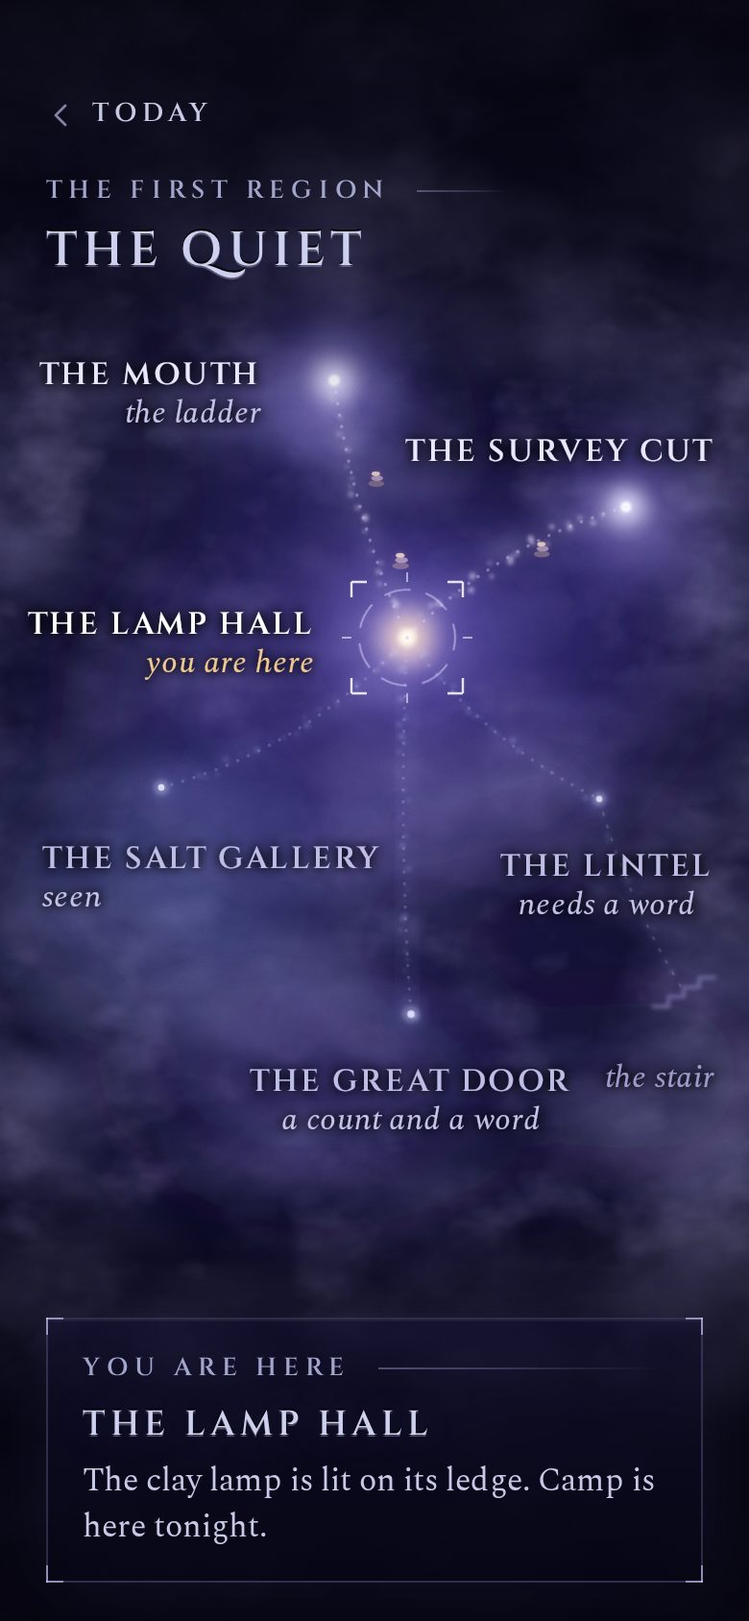
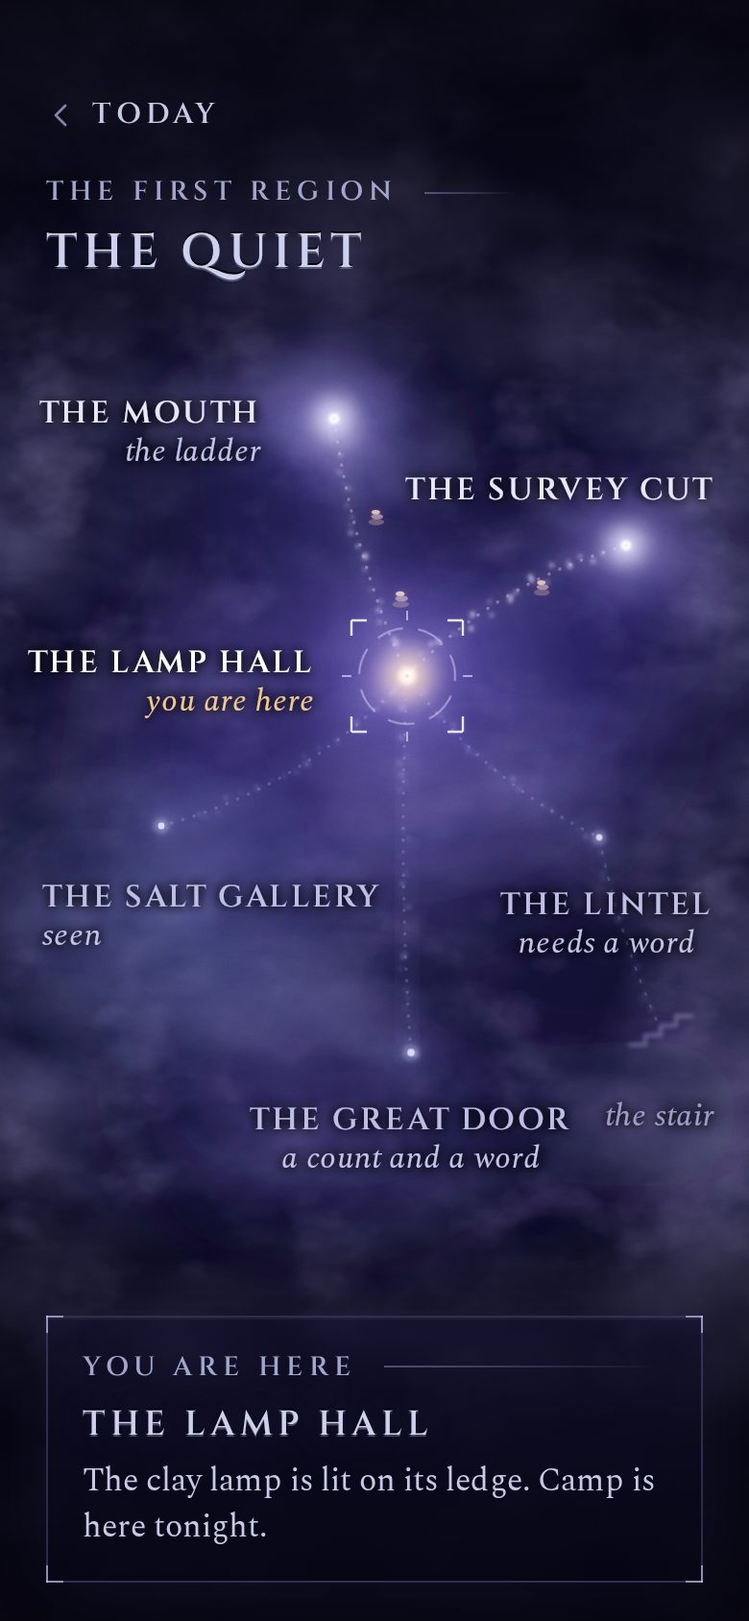
design: direction D final fixes, part 1 (dial scale, reachable destinations, Ahead label, map, satchel heading, index)
Claude-Session: https://claude.ai/code/session_01Kbno6rpv5TB3oKGk9kw7t3

diff --git a/docs/design/directions/d-combined/map.html b/docs/design/directions/d-combined/map.html
@@ -42,13 +42,15 @@ body { --scrim-top-h: 210px; --scrim-bottom-h: 26%; }
 .box .act[hidden] { display: none; }
 .box .swap { animation: rise .45s var(--ease) both; }
 @media (max-height: 800px) { .bottom .box { min-height: 124px; padding: 14px 16px; } }
+/* the map sits 20px lower than first drawn (fills the band above the box); on short phones take that back so the box never meets the labels */
+@media (max-height: 800px) { .paint > img.pimg, .places > svg, svg.live { top: -20px; height: calc(100% + 20px); } }
 
 </style>
 </head>
 <body class="s-day">
 <main class="phone">
 
[2 lines of base64/hex data omitted]
 <div class="fog " aria-hidden="true"><i class="drift-a"></i><i class="drift-b"></i></div>
 <div class="paint places" aria-hidden="true"><svg viewBox="0 0 390 844" preserveAspectRatio="xMidYMid slice"><defs>
   <filter id="clouds" x="0" y="0" width="100%" height="100%">
@@ -76,7 +78,7 @@ body { --scrim-top-h: 210px; --scrim-bottom-h: 26%; }
   <radialGradient id="warmPool"><stop offset="0" stop-color="#ffe0a8" stop-opacity=".95"/><stop offset=".12" stop-color="#f4a95a" stop-opacity=".5"/><stop offset=".45" stop-color="#8a4a8a" stop-opacity=".16"/><stop offset="1" stop-color="#2a1a40" stop-opacity="0"/></radialGradient>
   <filter id="halo" x="-20%" y="-60%" width="140%" height="220%"><feGaussianBlur in="SourceAlpha" stdDeviation="3" result="b"/><feFlood flood-color="#05040f" flood-opacity=".95"/><feComposite in2="b" operator="in" result="s"/><feMerge><feMergeNode in="s"/><feMergeNode in="s"/><feMergeNode in="SourceGraphic"/></feMerge></filter>
   <filter id="lineGlow" x="-20%" y="-20%" width="140%" height="140%"><feGaussianBlur stdDeviation="1.6" result="b"/><feMerge><feMergeNode in="b"/><feMergeNode in="SourceGraphic"/></feMerge></filter>
-</defs><g transform="translate(174 198) scale(0.9)" class="pl"><circle r="70" fill="url(#litPool)" opacity=".85"/><circle r="10" fill="#d2ccff" opacity=".55" filter="url(#b4)"/><circle r="3.2" fill="#fbfaff" filter="url(#b1)"/></g><g transform="translate(326 264) scale(0.85)" class="pl"><circle r="70" fill="url(#litPool)" opacity=".85"/><circle r="10" fill="#d2ccff" opacity=".55" filter="url(#b4)"/><circle r="3.2" fill="#fbfaff" filter="url(#b1)"/></g><g transform="translate(84 410) scale(1.0)" class="pl"><circle r="22" fill="url(#seenPool)" opacity=".42"/><circle r="4" fill="#aeb6f0" opacity=".3" filter="url(#b1)"/><circle r="1.7" fill="#dfe3ff" opacity=".85"/></g><g transform="translate(312 416) scale(0.95)" class="pl"><circle r="22" fill="url(#seenPool)" opacity=".42"/><circle r="4" fill="#aeb6f0" opacity=".3" filter="url(#b1)"/><circle r="1.7" fill="#dfe3ff" opacity=".85"/></g><g transform="translate(214 528) scale(1.15)" class="pl"><circle r="22" fill="url(#seenPool)" opacity=".42"/><circle r="4" fill="#aeb6f0" opacity=".3" filter="url(#b1)"/><circle r="1.7" fill="#dfe3ff" opacity=".85"/></g><circle cx="212" cy="332" r="60" fill="#8b7cff" opacity=".16" filter="url(#b16)"/><g transform="translate(212 332) scale(1.35)" class="pl"><g class="breathe"><circle r="48" fill="url(#litPool)"/><circle r="26" fill="url(#warmPool)" opacity=".9"/></g><circle r="10" fill="#ffd9a0" opacity=".5" filter="url(#b4)"/><circle r="3.4" fill="#fff4de" filter="url(#b1)"/></g><circle id="stairpool" cx="356" cy="516" r="46" fill="url(#seenPool)" opacity="0"/><g id="stairshape" opacity=".55"><ellipse cx="356" cy="516" rx="24" ry="15" fill="#6f6ab8" opacity=".16" filter="url(#b8)"/><path d="M340 524 h8 v-5 h8 v-5 h8 v-5 h8" fill="none" stroke="#a7a3e6" stroke-width="2" stroke-linecap="round" stroke-linejoin="round" filter="url(#b1)" opacity=".7"/></g></svg></div>
+</defs><g transform="translate(0 20)"><g transform="translate(174 198) scale(0.9)" class="pl"><circle r="70" fill="url(#litPool)" opacity=".85"/><circle r="10" fill="#d2ccff" opacity=".55" filter="url(#b4)"/><circle r="3.2" fill="#fbfaff" filter="url(#b1)"/></g><g transform="translate(326 264) scale(0.85)" class="pl"><circle r="70" fill="url(#litPool)" opacity=".85"/><circle r="10" fill="#d2ccff" opacity=".55" filter="url(#b4)"/><circle r="3.2" fill="#fbfaff" filter="url(#b1)"/></g><g transform="translate(84 410) scale(1.0)" class="pl"><circle r="22" fill="url(#seenPool)" opacity=".42"/><circle r="4" fill="#aeb6f0" opacity=".3" filter="url(#b1)"/><circle r="1.7" fill="#dfe3ff" opacity=".85"/></g><g transform="translate(312 416) scale(0.95)" class="pl"><circle r="22" fill="url(#seenPool)" opacity=".42"/><circle r="4" fill="#aeb6f0" opacity=".3" filter="url(#b1)"/><circle r="1.7" fill="#dfe3ff" opacity=".85"/></g><g transform="translate(214 528) scale(1.15)" class="pl"><circle r="22" fill="url(#seenPool)" opacity=".42"/><circle r="4" fill="#aeb6f0" opacity=".3" filter="url(#b1)"/><circle r="1.7" fill="#dfe3ff" opacity=".85"/></g><circle cx="212" cy="332" r="60" fill="#8b7cff" opacity=".16" filter="url(#b16)"/><g transform="translate(212 332) scale(1.35)" class="pl"><g class="breathe"><circle r="48" fill="url(#litPool)"/><circle r="26" fill="url(#warmPool)" opacity=".9"/></g><circle r="10" fill="#ffd9a0" opacity=".5" filter="url(#b4)"/><circle r="3.4" fill="#fff4de" filter="url(#b1)"/></g><circle id="stairpool" cx="344" cy="516" r="46" fill="url(#seenPool)" opacity="0"/><g id="stairshape" opacity=".55"><ellipse cx="344" cy="516" rx="24" ry="15" fill="#6f6ab8" opacity=".16" filter="url(#b8)"/><path d="M328 524 h8 v-5 h8 v-5 h8 v-5 h8" fill="none" stroke="#a7a3e6" stroke-width="2" stroke-linecap="round" stroke-linejoin="round" filter="url(#b1)" opacity=".7"/></g></g></svg></div>
 <div class="grain" aria-hidden="true"></div>
 <div class="vignette" aria-hidden="true"></div>
 <div class="scrim-top" aria-hidden="true"></div>
@@ -85,8 +87,8 @@ body { --scrim-top-h: 210px; --scrim-bottom-h: 26%; }
 <defs>
   <filter id="halo2" x="-20%" y="-60%" width="140%" height="220%"><feGaussianBlur in="SourceAlpha" stdDeviation="3" result="b"/><feFlood flood-color="#05040f" flood-opacity=".95"/><feComposite in2="b" operator="in" result="s"/><feMerge><feMergeNode in="s"/><feMergeNode in="s"/><feMergeNode in="SourceGraphic"/></feMerge></filter>
   <filter id="lineGlow2" x="-20%" y="-20%" width="140%" height="140%"><feGaussianBlur stdDeviation="1.8" result="b"/><feMerge><feMergeNode in="b"/><feMergeNode in="SourceGraphic"/></feMerge></filter>
-</defs>
-<g class="lines" fill="none" stroke="#d6d2ff" stroke-width="1.1" filter="url(#lineGlow2)"><path class="drawn settle" pathLength="100" d="M174 198 Q183.4 267.7 212 332" stroke-opacity="0.72" style="--len:100;animation-delay:0.35s,2.25s"/><path class="drawn settle" pathLength="100" d="M212 332 Q259.8 282.5 326 264" stroke-opacity="0.72" style="--len:100;animation-delay:0.53s,2.43s"/><path class="drawn settle" pathLength="100" d="M212 332 Q159.4 389.8 84 410" stroke-opacity="0.46" style="--len:100;animation-delay:0.71s,2.61s"/><path class="drawn settle" pathLength="100" d="M212 332 Q251.7 386.3 312 416" stroke-opacity="0.46" style="--len:100;animation-delay:0.89s,2.79s"/><path class="drawn settle" pathLength="100" d="M212 332 Q207 430.1 214 528" stroke-opacity="0.46" style="--len:100;animation-delay:1.07s,2.97s"/><path d="M312 416 Q326.7 469.2 356 516" stroke-opacity="0.2" stroke-dasharray="2 5" class="fadein" style="animation-delay:2.15s"/></g>
+</defs><g transform="translate(0 20)">
+<g class="lines" fill="none" stroke="#d6d2ff" stroke-width="1.1" filter="url(#lineGlow2)"><path class="drawn settle" pathLength="100" d="M174 198 Q183.4 267.7 212 332" stroke-opacity="0.72" style="--len:100;animation-delay:0.35s,2.25s"/><path class="drawn settle" pathLength="100" d="M212 332 Q259.8 282.5 326 264" stroke-opacity="0.72" style="--len:100;animation-delay:0.53s,2.43s"/><path class="drawn settle" pathLength="100" d="M212 332 Q159.4 389.8 84 410" stroke-opacity="0.46" style="--len:100;animation-delay:0.71s,2.61s"/><path class="drawn settle" pathLength="100" d="M212 332 Q251.7 386.3 312 416" stroke-opacity="0.46" style="--len:100;animation-delay:0.89s,2.79s"/><path class="drawn settle" pathLength="100" d="M212 332 Q207 430.1 214 528" stroke-opacity="0.46" style="--len:100;animation-delay:1.07s,2.97s"/><path d="M312 416 Q322.7 469.2 344 516" stroke-opacity="0.2" stroke-dasharray="2 5" class="fadein" style="animation-delay:2.15s"/></g>
 <g class="dots" fill="none" stroke="#dcd8ff" stroke-width="1.7" stroke-linecap="round" stroke-dasharray=".1 6"><path class="dust" d="M174 198 Q183.4 267.7 212 332" stroke-opacity="0.38" style="animation-delay:1.85s"/><path class="dust" d="M212 332 Q259.8 282.5 326 264" stroke-opacity="0.38" style="animation-delay:2.03s"/><path class="dust" d="M212 332 Q159.4 389.8 84 410" stroke-opacity="0.2" style="animation-delay:2.21s"/><path class="dust" d="M212 332 Q251.7 386.3 312 416" stroke-opacity="0.2" style="animation-delay:2.39s"/><path class="dust" d="M212 332 Q207 430.1 214 528" stroke-opacity="0.2" style="animation-delay:2.57s"/></g>
 <g class="labels"><text x="136" y="200" text-anchor="end" class="nn ">THE MOUTH</text><text x="136" y="220" text-anchor="end" class="ns ">the ladder</text><text x="372" y="240" text-anchor="end" class="nn ">THE SURVEY CUT</text><text x="164" y="330" text-anchor="end" class="nn here">THE LAMP HALL</text><text x="164" y="350" text-anchor="end" class="ns warm">you are here</text><text x="22" y="452" text-anchor="start" class="nn seen">THE SALT GALLERY</text><text x="22" y="472" text-anchor="start" class="ns ">seen</text><text x="316" y="456" text-anchor="middle" class="nn seen">THE LINTEL</text><text x="316" y="476" text-anchor="middle" class="ns " id="lintelsub">needs a word</text><text x="214" y="568" text-anchor="middle" class="nn seen">THE GREAT DOOR</text><text x="214" y="588" text-anchor="middle" class="ns ">a count and a word</text><text x="372" y="566" text-anchor="end" class="ns dim" id="stairlabel">the stair</text></g>
 <g class="reticle" id="reticle" style="transform:translate(212px,332px)">
@@ -94,8 +96,8 @@ body { --scrim-top-h: 210px; --scrim-bottom-h: 26%; }
   <path d="M-29 -29 h8 M-29 -29 v8 M29 -29 h-8 M29 -29 v8 M-29 29 h8 M-29 29 v-8 M29 29 h-8 M29 29 v-8" fill="none" stroke="#efedff" stroke-opacity=".95" stroke-width="1.2"/>
   <path d="M0 -34 v5 M0 34 v-5 M-34 0 h5 M34 0 h-5" stroke="#efedff" stroke-opacity=".6" stroke-width="1"/>
 </g>
-<g fill="transparent"><circle class="node" data-n="mouth" cx="174" cy="198" r="30" tabindex="0" role="button" aria-label="mouth"/><circle class="node" data-n="survey" cx="326" cy="264" r="30" tabindex="0" role="button" aria-label="survey"/><circle class="node" data-n="hall" cx="212" cy="332" r="30" tabindex="0" role="button" aria-label="hall"/><circle class="node" data-n="salt" cx="84" cy="410" r="30" tabindex="0" role="button" aria-label="salt"/><circle class="node" data-n="lintel" cx="312" cy="416" r="30" tabindex="0" role="button" aria-label="lintel"/><circle class="node" data-n="door" cx="214" cy="528" r="30" tabindex="0" role="button" aria-label="door"/><circle class="node" data-n="stair" cx="356" cy="516" r="30" tabindex="0" role="button" aria-label="stair"/></g>
-</svg>
+<g fill="transparent"><circle class="node" data-n="mouth" cx="174" cy="198" r="30" tabindex="0" role="button" aria-label="mouth"/><circle class="node" data-n="survey" cx="326" cy="264" r="30" tabindex="0" role="button" aria-label="survey"/><circle class="node" data-n="hall" cx="212" cy="332" r="30" tabindex="0" role="button" aria-label="hall"/><circle class="node" data-n="salt" cx="84" cy="410" r="30" tabindex="0" role="button" aria-label="salt"/><circle class="node" data-n="lintel" cx="312" cy="416" r="30" tabindex="0" role="button" aria-label="lintel"/><circle class="node" data-n="door" cx="214" cy="528" r="30" tabindex="0" role="button" aria-label="door"/><circle class="node" data-n="stair" cx="344" cy="516" r="30" tabindex="0" role="button" aria-label="stair"/></g>
+</g></svg>
 <div class="ui" style="pointer-events:none">
   <header class="top col" style="pointer-events:auto">
     <div class="topbar rise"><a class="home" href="morning.html"><svg viewBox="0 0 16 16" aria-hidden="true"><path d="M10 3 5 8l5 5"/></svg><span>Today</span></a><span></span><span></span></div>
@@ -134,7 +136,7 @@ body { --scrim-top-h: 210px; --scrim-bottom-h: 26%; }
 </script>
 <script>
 (function(){
-  var N = {"mouth":[174,198],"survey":[326,264],"hall":[212,332],"salt":[84,410],"lintel":[312,416],"door":[214,528],"stair":[356,516]};
+  var N = {"mouth":[174,198],"survey":[326,264],"hall":[212,332],"salt":[84,410],"lintel":[312,416],"door":[214,528],"stair":[344,516]};
   var C = {
     hall:   ['You are here', 'The Lamp Hall', 'The clay lamp is lit on its ledge. Camp is here tonight.', null],
     mouth:  ['Reached', 'The Mouth', 'The capped shaft and the ladder. The way you came in.', null],

diff --git a/docs/design/directions/d-combined/delve-set.html b/docs/design/directions/d-combined/delve-set.html
@@ -9,7 +9,8 @@
 <link rel="stylesheet" href="direction.css">
 <style>
 /* delve-set: the moment after Begin. Dan chose the dial (D-033; the three tried are in delve-set-variants.html).
-   Four stops only: 25, 30, 45, 60, a quarter-turn apart. Research: design/research/DELVE_TIMER_CONTROLS.md
+   Four stops only: 25, 30, 45, 60, on a 60-minute face: the ring fills in proportion (25 = 5/12, 30 = half, 45 = three quarters,
+   60 = full), each stop label at its own angle, 60 at the top where the ring starts and ends. Research: design/research/DELVE_TIMER_CONTROLS.md
    One centre axis: the dial, its number, the stops, the route, the words and the button all share the column's centre. */
 
 body { --scrim-top-h: 300px; --scrim-bottom-h: 52%; }
@@ -66,7 +67,7 @@ body { --scrim-top-h: 300px; --scrim-bottom-h: 52%; }
 .dial .pulse.go { animation: pulse .6s var(--ease); }
 @keyframes pulse { 0% { opacity:.95; scale: .6; } 100% { opacity:0; scale: 2.8; } }
 
-/* the stops: top, right, bottom, left of the ring, all the same distance out (tap them, too) */
+/* the stops: at their minutes on a 60-minute face (25 at 150°, 30 at 180°, 45 at 270°, 60 at the top), all the same distance out (tap them, too) */
 .stop { position:absolute; left:0; top:0; width:48px; height:44px; margin:-22px 0 0 -24px; display:flex; align-items:center; justify-content:center;
   font-family: var(--life); font-size: 17px; color: var(--ink-3); font-variant-numeric: tabular-nums lining-nums;
   transform: rotate(var(--a)) translateY(calc((var(--R) / 2 + 30px) * -1)) rotate(calc(var(--a) * -1));
@@ -76,14 +77,16 @@ body { --scrim-top-h: 300px; --scrim-bottom-h: 52%; }
 .stop:focus-visible { outline: 1px solid var(--edge); outline-offset: -4px; }
 .stops { --R: min(224px, 56vw, 27vh); position:absolute; left:0; top:0; }
 
-/* the route: the column's full width, markers evenly spaced, all centred on one line */
+/* the route: the column's full width always drawn, markers evenly spaced and dim until reached, all centred on one line */
 .route { position:absolute; left:0; right:0; bottom: 0; height: 32px; pointer-events:none; }
 .route svg { width:100%; height:100%; overflow:visible; display:block; }
 
 /* where it takes you */
 .reach { text-align:center; min-height: 104px; margin-top: 14px; }
+.reach h2 { white-space: normal; text-wrap: balance; max-width: 16em; margin-left:auto; margin-right:auto; min-height: 2.5em; line-height: 1.25;
+  display:flex; align-items:center; justify-content:center; }
 .reach .label-line { justify-content:center; }
-.reach h2 { margin-top: 8px; font-size: 22px; letter-spacing: .12em; padding-left: .12em; white-space: nowrap; color: #eceaff;
+.reach h2 { margin-top: 8px; font-size: 22px; letter-spacing: .12em; padding-left: .12em; color: #eceaff;
   text-shadow: 0 -1px 0 rgba(0,0,0,.9), 0 0 16px rgba(var(--violet-rgb), .7), 0 0 44px rgba(var(--violet-rgb), .35); }
 .reach p { margin-top: 4px; min-height: 24px; }
 .reach .swap { transition: opacity .28s var(--ease), transform .28s var(--ease); }
@@ -97,7 +100,7 @@ body { --scrim-top-h: 300px; --scrim-bottom-h: 52%; }
 @media (max-height: 800px) {
   .job h1 { font-size: 24px; }
   .reach { min-height: 96px; margin-top: 10px; }
-  .reach h2 { font-size: 20px; }
+  .reach h2 { font-size: 19px; }
   .go .soft { margin-bottom: 10px; }
 }
 </style>
@@ -128,20 +131,20 @@ body { --scrim-top-h: 300px; --scrim-bottom-h: 52%; }
   <div class="mid stage col rise d2" id="stage">
     <div class="stage-in">
       <div class="dialwrap">
-        <div class="dial" id="dial" role="slider" tabindex="0" aria-label="Length of the delve" aria-valuemin="25" aria-valuemax="60" aria-valuenow="25" style="--p:.25">
+        <div class="dial" id="dial" role="slider" tabindex="0" aria-label="Length of the delve" aria-valuemin="25" aria-valuemax="60" aria-valuenow="25" style="--p:.4167">
           <div class="halo"></div><div class="disc"></div>
           <div class="band track"></div>
           <div class="glow wide"><div class="band fill"></div></div>
           <div class="glow"><div class="band fill"></div></div>
           <div class="band fill"></div>
-          <i class="notch" data-m="25" style="--a:90deg"></i><i class="notch" data-m="30" style="--a:180deg"></i><i class="notch" data-m="45" style="--a:270deg"></i><i class="notch" data-m="60" style="--a:360deg"></i>
+          <i class="notch" data-m="25" style="--a:150deg"></i><i class="notch" data-m="30" style="--a:180deg"></i><i class="notch" data-m="45" style="--a:270deg"></i><i class="notch" data-m="60" style="--a:360deg"></i>
           <div class="pulse"></div>
           <div class="handle"></div>
           <div class="inner"><span class="num">25</span><span class="unit">minutes</span></div>
         </div>
         <div class="stops">
           <button class="stop" type="button" data-m="60" style="--a:0deg" aria-label="60 minutes">60</button>
-          <button class="stop" type="button" data-m="25" style="--a:90deg" aria-label="25 minutes">25</button>
+          <button class="stop" type="button" data-m="25" style="--a:150deg" aria-label="25 minutes">25</button>
           <button class="stop" type="button" data-m="30" style="--a:180deg" aria-label="30 minutes">30</button>
           <button class="stop" type="button" data-m="45" style="--a:270deg" aria-label="45 minutes">45</button>
         </div>
@@ -152,13 +155,12 @@ body { --scrim-top-h: 300px; --scrim-bottom-h: 52%; }
 
   <section class="bottom col">
     <div class="reach rise d3" id="reach" aria-live="polite">
-      <div class="label-line centred swap" id="rk">Towards</div>
-      <h2 class="carve swap" id="rp">The Salt Gallery</h2>
-      <p class="soft on-scene swap" id="rl">where the passage is heading</p>
+      <div class="label-line centred">How far</div>
+      <h2 class="carve swap" id="rp">Towards the Salt Gallery</h2>
     </div>
     <div class="go rise d4">
       <p class="soft on-scene">Then a breather: <b>5 minutes</b>.</p>
-      <a class="btn" id="start" href="delve.html">Start the delve</a>
+      <a class="btn" id="start" href="delve.html#cat-25">Start the delve</a>
     </div>
   </section>
 </div>
@@ -185,12 +187,13 @@ body { --scrim-top-h: 300px; --scrim-bottom-h: 52%; }
 (function(){
   'use strict';
   var STOPS = [25, 30, 45, 60];
-  var ANG = { 25: 90, 30: 180, 45: 270, 60: 360 };   /* a quarter-turn apart: symmetric round the ring */
+  var ANG = { 25: 150, 30: 180, 45: 270, 60: 360 };   /* a 60-minute face: 6° a minute, from the top */
+  /* only the open first region: never past the sealed lintel */
   var REACH = {
-    25: ['Towards', 'The Salt Gallery', 'where the passage is heading'],
-    30: ['Towards', 'The Salt Gallery', 'and a little way beyond it'],
-    45: ['Further', 'The head of the stair', 'past the Salt Gallery, to where the stair begins'],
-    60: ['Further', 'Somewhere unlit', 'somewhere you haven’t been yet']
+    25: 'Towards the Salt Gallery',
+    30: 'The Salt Gallery, and a little past it',
+    45: 'On to the Survey Cut',
+    60: 'The far end of the Survey Cut'
   };
   var reduce = window.matchMedia && matchMedia('(prefers-reduced-motion: reduce)').matches;
   var NS = 'http://www.w3.org/2000/svg';
@@ -202,10 +205,10 @@ body { --scrim-top-h: 300px; --scrim-bottom-h: 52%; }
   function el(tag, attrs, parent) { var e = document.createElementNS(NS, tag); for (var k in attrs) e.setAttribute(k, attrs[k]); if (parent) parent.appendChild(e); return e; }
   function buzz(ms) { try { if (navigator.vibrate) navigator.vibrate(ms); } catch (e) {} }
   function retrigger(node, cls) { node.classList.remove(cls); void node.offsetWidth; node.classList.add(cls); }
-  /* minutes ↔ angle, piecewise between the stops */
+  /* minutes ↔ angle: 6° a minute (and a piecewise map for the route) */
   function lerpMap(x, xs, ys) { for (var i = 0; i < xs.length - 1; i++) if (x <= xs[i + 1]) return ys[i] + (ys[i + 1] - ys[i]) * (x - xs[i]) / (xs[i + 1] - xs[i]); return ys[ys.length - 1]; }
-  function angOf(v) { return lerpMap(v, [25, 30, 45, 60], [90, 180, 270, 360]); }
-  function minOf(a) { return lerpMap(a, [90, 180, 270, 360], [25, 30, 45, 60]); }
+  function angOf(v) { return v * 6; }
+  function minOf(a) { return a / 6; }
 
   /* the painted hall behind */
   try { Hall.draw(document.getElementById('hall'), { cam: { y: 1.7, pitch: -3, f: .9, cy: .4 }, cups: 'dark', lintel: 'sealed', gold: .1, res: .75 }); } catch (e) {}
@@ -214,8 +217,8 @@ body { --scrim-top-h: 300px; --scrim-bottom-h: 52%; }
   var stopEls = Array.prototype.slice.call(document.querySelectorAll('.stop'));
   stopEls.forEach(function (b) { b.addEventListener('click', function () { settle(+b.dataset.m, true); }); });
 
-  /* the route: you → the Salt Gallery → the head of the stair → somewhere unlit.
-     Four markers, evenly spaced across the column, each centred on the one line. */
+  /* the route: you → the Salt Gallery → the Survey Cut → its far end. Arches only (never the stair: it lies past the sealed lintel).
+     The whole bar always shows, so it reads centred; each place is dim until the lit line reaches it. */
   var route = document.getElementById('route'), R = null;
   function drawRoute() {
     route.innerHTML = '';
@@ -225,33 +228,33 @@ body { --scrim-top-h: 300px; --scrim-bottom-h: 52%; }
     var d = el('defs', {}, route);
     d.innerHTML = '<linearGradient id="rg" gradientUnits="userSpaceOnUse" x1="0" x2="' + W + '" y1="0" y2="0"><stop offset="0" stop-color="#8f86ff" stop-opacity=".25"/><stop offset="1" stop-color="#ece9ff"/></linearGradient>' +
       '<radialGradient id="rn"><stop offset="0" stop-color="#fff"/><stop offset=".4" stop-color="#b9b3ff" stop-opacity=".7"/><stop offset="1" stop-color="#8f86ff" stop-opacity="0"/></radialGradient>';
-    var dim = el('path', { d: 'M' + xs[0] + ' ' + y + ' H' + xs[3], stroke: 'rgba(186,186,255,.16)', 'stroke-width': 1, 'stroke-dasharray': '2 5' }, route);
+    el('path', { d: 'M' + xs[0] + ' ' + y + ' H' + xs[3], stroke: 'rgba(186,186,255,.3)', 'stroke-width': 1 }, route);
     var lit = el('path', { stroke: 'url(#rg)', 'stroke-width': 1.6, 'stroke-linecap': 'round', style: 'filter:drop-shadow(0 0 4px rgba(143,134,255,.9))' }, route);
-    /* each glyph is drawn in a 16×16 box centred on (0,0), so all four share one centre line */
-    function glyph(x, dd, attrs) { var g = el('g', { transform: 'translate(' + x + ' ' + y + ')' }, route); el('path', Object.assign({ d: dd, fill: 'none', stroke: '#e9e6ff', 'stroke-width': 1.2, 'stroke-linecap': 'round', 'stroke-linejoin': 'round' }, attrs || {}), g); return g; }
-    el('circle', { cx: xs[0], cy: y, r: 3.2, fill: '#ffd27a', style: 'filter:drop-shadow(0 0 5px #f2c170)' }, route);
+    /* each glyph is drawn in a 16×16 box centred on (0,0), so all share one centre line; a dark fill hides the track behind it */
     var ARCH = 'M-6 8 V-1 Q-6 -8 0 -8 Q6 -8 6 -1 V8';
-    var g25 = glyph(xs[1], ARCH);
-    var g45 = glyph(xs[2], 'M-7 -7 H-2.5 V-2.5 H2 V2 H7 V7');
-    var g60 = glyph(xs[3], ARCH, { stroke: 'rgba(210,208,255,.7)', 'stroke-dasharray': '2 3' });
+    function glyph(x) { var g = el('g', { transform: 'translate(' + x + ' ' + y + ')' }, route); el('path', { d: ARCH + ' Z', fill: '#0b0b1c', stroke: 'none' }, g); el('path', { d: ARCH, fill: 'none', stroke: '#e9e6ff', 'stroke-width': 1.2, 'stroke-linecap': 'round', 'stroke-linejoin': 'round' }, g); return g; }
+    el('circle', { cx: xs[0], cy: y, r: 3.2, fill: '#ffd27a', style: 'filter:drop-shadow(0 0 5px #f2c170)' }, route);
+    var gs = [glyph(xs[1]), glyph(xs[2]), glyph(xs[3])];
     var spark = el('circle', { cy: y, r: 10, fill: 'url(#rn)' }, route);
-    R = { xs: xs, y: y, dim: dim, lit: lit, g25: g25, g45: g45, g60: g60, spark: spark };
+    R = { xs: xs, y: y, lit: lit, gs: gs, spark: spark };
   }
   function renderRoute(v) {
     if (!R) return;
-    var xs = R.xs, x;
-    if (v <= 30) x = xs[1] + (xs[2] - xs[1]) * .3 * (v - 25) / 5;          /* 30: a little beyond the Gallery */
-    else if (v <= 45) x = xs[1] + (xs[2] - xs[1]) * (.3 + .7 * (v - 30) / 15);
-    else x = xs[2] + (xs[3] - xs[2]) * (v - 45) / 15;
+    var xs = R.xs;
+    /* 25: most of the way to the Gallery; 30: a little past it; 45: the Survey Cut; 60: its far end */
+    var x = lerpMap(clamp(v, 25, 60), [25, 30, 45, 60], [xs[0] + (xs[1] - xs[0]) * .8, xs[1] + (xs[2] - xs[1]) * .3, xs[2], xs[3]]);
+    if (v < 25) x = xs[0] + (xs[1] - xs[0]) * .8 * v / 25;
     R.lit.setAttribute('d', 'M' + xs[0] + ' ' + R.y + ' H' + x.toFixed(1));
     R.spark.setAttribute('cx', x.toFixed(1));
-    R.dim.setAttribute('opacity', (.6 + .4 * clamp((v - 27) / 10, 0, 1)).toFixed(2));   /* the whole bar always shows, so it reads centred; only the places wait */
-    R.g45.setAttribute('opacity', clamp((v - 33) / 10, 0, 1).toFixed(2));
-    R.g60.setAttribute('opacity', clamp((v - 48) / 12, 0, 1).toFixed(2));
+    R.gs.forEach(function (g, i) {
+      var gx = xs[i + 1], k = clamp(1 - (gx - x) / 14, 0, 1);   /* lights as the line arrives */
+      g.setAttribute('opacity', (.34 + .66 * k).toFixed(2));
+      g.style.filter = k > .5 ? 'drop-shadow(0 0 4px rgba(143,134,255,.9))' : '';
+    });
   }
 
   var nums = document.querySelectorAll('.num');
-  var reach = document.getElementById('reach'), rk = document.getElementById('rk'), rp = document.getElementById('rp'), rl = document.getElementById('rl');
+  var reach = document.getElementById('reach'), rp = document.getElementById('rp'), start = document.getElementById('start');
   var shownSnap = 25, swapT = null;
   function render() {
     var v = state.v, s = nearest(v);
@@ -261,15 +264,16 @@ body { --scrim-top-h: 300px; --scrim-bottom-h: 52%; }
     if (s !== shownSnap) { tick(s); shownSnap = s; }
     stopEls.forEach(function (b) { var m = +b.dataset.m; b.classList.toggle('on', m === s); b.classList.toggle('past', m < s); });
   }
-  function setWords(s) { var r = REACH[s]; rk.textContent = r[0]; rp.textContent = r[1]; rl.textContent = r[2]; reach.classList.toggle('new', s === 60); }
+  /* the delve starts on the job the dial was opened from, at this length */
+  function setWords(s) { rp.textContent = REACH[s]; reach.classList.toggle('new', s === 60); start.href = 'delve.html#cat-' + s; }
   function tick(s) {
     nums.forEach(function (n) { n.textContent = s; retrigger(n, 'tick'); });
     var pulse = dial.querySelector('.pulse'); pulse.style.setProperty('--a', ANG[s] + 'deg'); retrigger(pulse, 'go');
     buzz(8);
-    dial.setAttribute('aria-valuenow', s); dial.setAttribute('aria-valuetext', s + ' minutes, ' + REACH[s][2]);
+    dial.setAttribute('aria-valuenow', s); dial.setAttribute('aria-valuetext', s + ' minutes, ' + REACH[s]);
     clearTimeout(swapT);
-    [rk, rp, rl].forEach(function (n) { n.classList.add('out'); });
-    swapT = setTimeout(function () { setWords(s); [rk, rp, rl].forEach(function (n) { n.classList.remove('out'); }); }, reduce ? 0 : 180);
+    rp.classList.add('out');
+    swapT = setTimeout(function () { setWords(s); rp.classList.remove('out'); }, reduce ? 0 : 180);
   }
 
   /* settle: ease to a stop, with a small overshoot, like a detent */
@@ -290,7 +294,7 @@ body { --scrim-top-h: 300px; --scrim-bottom-h: 52%; }
     anim = requestAnimationFrame(f);
   }
 
-  /* drag round the ring. The quarter between 60 and 25 is a stop, so it never jumps across the top. */
+  /* drag round the ring. The empty arc from the top to 25 (0°–150°) is a stop, so it never jumps across the top. */
   function angleAt(e) {
     var r = dial.getBoundingClientRect(), dx = e.clientX - r.left - r.width / 2, dy = e.clientY - r.top - r.height / 2;
     var a = Math.atan2(dx, -dy) * 180 / Math.PI; if (a < 0) a += 360;
@@ -303,7 +307,7 @@ body { --scrim-top-h: 300px; --scrim-bottom-h: 52%; }
     dial.setPointerCapture(e.pointerId); dial.classList.add('dragging');
     function mv(ev) {
       var a = angleAt(ev).a, lastA = angOf(state.v);
-      if (a < 90) a = lastA > 225 ? 360 : 90;      /* in the top-right quarter: hold at whichever end you came from */
+      if (a < 150) a = lastA > 255 ? 360 : 150;    /* in the empty arc: hold at whichever end you came from */
       if (Math.abs(a - lastA) > 120) a = lastA;
       state.v = magnet(clamp(minOf(a), 25, 60)); render();
     }
@@ -324,7 +328,7 @@ body { --scrim-top-h: 300px; --scrim-bottom-h: 52%; }
   if (STOPS.indexOf(n) < 0) n = 25;
   state.v = n; state.snap = n; shownSnap = n;
   nums.forEach(function (x) { x.textContent = n; }); setWords(n);
-  dial.setAttribute('aria-valuenow', n); dial.setAttribute('aria-valuetext', n + ' minutes, ' + REACH[n][2]);
+  dial.setAttribute('aria-valuenow', n); dial.setAttribute('aria-valuetext', n + ' minutes, ' + REACH[n]);
   function layout() { drawRoute(); render(); }
   layout(); addEventListener('resize', layout);
 })();

diff --git a/docs/design/directions/d-combined/index.html b/docs/design/directions/d-combined/index.html
@@ -44,15 +44,16 @@ li a:hover .t { color: #fff; }
   <a class="btn start" href="morning.html">Start at the morning</a>
   <ol>
     <li><a href="morning.html"><img src="shots/morning.jpg" alt=""><div><div class="n">01</div><div class="t">The morning</div><div class="c">C’s hall and purple; B’s boxes, “Next” label, Low / Normal / High and line icons.</div></div></a></li>
-    <li><a href="delve.html"><img src="shots/delve.jpg" alt=""><div><div class="n">02</div><div class="t">A delve</div><div class="c">Towards the Salt Gallery: the ring fills as the tunnel and the nebula drift past.</div></div></a></li>
-    <li><a href="map.html"><img src="shots/map.jpg" alt=""><div><div class="n">03</div><div class="t">The map</div><div class="c">A’s lit places in haze; B’s lines draw in. Tap a place for the crosshair and its box.</div></div></a></li>
-    <li><a href="record.html"><img src="shots/record.jpg" alt=""><div><div class="n">04</div><div class="t">A record</div><div class="c">The long tally in the open. Tap a mark, pick a guess.</div></div></a></li>
-    <li><a href="cut.html"><img src="shots/cut.jpg" alt=""><div><div class="n">05</div><div class="t">Cutting a word</div><div class="c">The word cut and boxed, the lintel opens, the lamps wake all the way down the hall.</div></div></a></li>
-    <li><a href="stair.html"><img src="shots/stair.jpg" alt=""><div><div class="n">06</div><div class="t">The head of the stair</div><div class="c">Through the lintel: where “Go through” arrives.</div></div></a></li>
-    <li><a href="complete.html"><img src="shots/complete.jpg" alt=""><div><div class="n">07</div><div class="t">Day complete</div><div class="c">The Salt Gallery, and the purple turns to gold. Enough for today.</div></div></a></li>
-    <li><a href="camp.html"><img src="shots/camp.jpg" alt=""><div><div class="n">08</div><div class="t">Camp</div><div class="c">By the lamp, with the hall going deep behind it. Bedtime.</div></div></a></li>
-    <li><a href="satchel.html"><img src="shots/satchel.jpg" alt=""><div><div class="n">09</div><div class="t">The satchel</div><div class="c">A painted satchel, softly glowing, and the jobs it holds. Nothing counted.</div></div></a></li>
-    <li><a href="daybook.html"><img src="shots/daybook.jpg" alt=""><div><div class="n">10</div><div class="t">The daybook</div><div class="c">Week 2, written for you in plain English.</div></div></a></li>
+    <li><a href="delve-set.html"><img src="shots/delve-set.jpg" alt=""><div><div class="n">02</div><div class="t">Setting the delve</div><div class="c">The dial you picked: 25, 30, 45 or 60 minutes on a sixty-minute face, and how far the expedition gets.</div></div></a></li>
+    <li><a href="delve.html"><img src="shots/delve.jpg" alt=""><div><div class="n">03</div><div class="t">A delve</div><div class="c">Towards the Salt Gallery: the ring fills as the tunnel and the nebula drift past.</div></div></a></li>
+    <li><a href="map.html"><img src="shots/map.jpg" alt=""><div><div class="n">04</div><div class="t">The map</div><div class="c">A’s lit places in haze; B’s lines draw in. Tap a place for the crosshair and its box.</div></div></a></li>
+    <li><a href="record.html"><img src="shots/record.jpg" alt=""><div><div class="n">05</div><div class="t">A record</div><div class="c">The long tally in the open. Tap a mark, pick a guess.</div></div></a></li>
+    <li><a href="cut.html"><img src="shots/cut.jpg" alt=""><div><div class="n">06</div><div class="t">Cutting a word</div><div class="c">The word cut and boxed, the lintel opens, the lamps wake all the way down the hall.</div></div></a></li>
+    <li><a href="stair.html"><img src="shots/stair.jpg" alt=""><div><div class="n">07</div><div class="t">The head of the stair</div><div class="c">Through the lintel: where “Go through” arrives.</div></div></a></li>
+    <li><a href="complete.html"><img src="shots/complete.jpg" alt=""><div><div class="n">08</div><div class="t">Day complete</div><div class="c">The Salt Gallery, and the purple turns to gold. Enough for today.</div></div></a></li>
+    <li><a href="camp.html"><img src="shots/camp.jpg" alt=""><div><div class="n">09</div><div class="t">Camp</div><div class="c">By the lamp, with the hall going deep behind it. Bedtime.</div></div></a></li>
+    <li><a href="satchel.html"><img src="shots/satchel.jpg" alt=""><div><div class="n">10</div><div class="t">The satchel</div><div class="c">A painted satchel, softly glowing, and the jobs it holds. Nothing counted.</div></div></a></li>
+    <li><a href="daybook.html"><img src="shots/daybook.jpg" alt=""><div><div class="n">11</div><div class="t">The daybook</div><div class="c">Week 2, written for you in plain English.</div></div></a></li>
   </ol>
   <div class="also">
     <div class="label-line">Other moments</div>
@@ -62,6 +63,7 @@ li a:hover .t { color: #fff; }
       <a class="text-link" href="delve.html#breather"><span>The breather</span></a>
       <a class="text-link" href="delve.html#second"><span>The second delve</span></a>
       <a class="text-link" href="map.html#stair"><span>The map, lintel open</span></a>
+      <a class="text-link" href="delve-set-variants.html"><span>The other two length setters</span></a>
     </div>
   </div>
   <p class="foot">Static mock-ups for a phone (390 × 844; they also hold at 360 × 780). Marks and records are invented samples.</p>

diff --git a/docs/design/directions/d-combined/morning.html b/docs/design/directions/d-combined/morning.html
@@ -15,10 +15,10 @@ body { --pool-x: 34%; --pool-y: 52%; --scrim-top-h: 330px; --scrim-bottom-h: 58%
 @keyframes aim-in { from { opacity: 0; } to { opacity: .4; } }
 @keyframes aim-breathe { 0%,100% { opacity: .4; } 50% { opacity: .22; } }
 h1.carve { margin-top: 2px; }
-.seg { margin-top: 6px; }
-.seg-note { text-align: left; margin-top: 6px; }
-.ahead { margin-top: 14px; }
-.ahead p { font-size: 17.5px; line-height: 1.38; max-width: 30ch; }
+.seg { margin-top: 12px; }
+.seg-note { text-align: left; margin-top: 4px; }
+.ahead { margin-top: 12px; }
+.ahead p { font-size: 17.5px; line-height: 1.38; margin-top: 6px; }
 .bottom { padding-top: 8px; }
 .next h2 { margin: 8px 0 4px; }
 .next .soft { margin-bottom: 18px; }
@@ -31,7 +31,7 @@ body.v-early .st.early.g, body.v-later .st.later.g, body.v-done .st.done.g { dis
 .row .s svg { width: 12px; height: 12px; margin-left: 6px; vertical-align: -1px; fill: none; stroke: var(--edge-2); stroke-width: 1.4; }
 a.row:hover .t { color: #fff; }
 @media (max-height: 800px) {
-  .seg { margin-top: 4px; } .ahead { margin-top: 10px; } .next .soft { margin-bottom: 14px; }
+  .seg { margin-top: 10px; } .ahead { margin-top: 8px; } .ahead p { margin-top: 4px; } .next .soft { margin-bottom: 14px; }
   .row { min-height: 44px; }
 }
 
@@ -58,7 +58,8 @@ a.row:hover .t { color: #fff; }
     </div>
     <p class="seg-note rise d1">from last night’s bedtime</p>
     <section class="ahead rise d2">
-      <p class="say on-scene">The lintel, on the side wall. It needs a word.</p>
+      <div class="label-line">Ahead</div>
+      <p class="say on-scene">The lintel, on the side wall.<br>It needs a word.</p>
     </section>
   </header>
   <div class="mid"></div>

diff --git a/docs/design/directions/d-combined/satchel.html b/docs/design/directions/d-combined/satchel.html
@@ -25,7 +25,7 @@ body { --scrim-top-h: 200px; --scrim-bottom-h: 58%; }
 .fog { opacity: .55; }
 .hall-blur { filter: blur(5px) brightness(.78); transform: scale(1.05); }
 .head { margin-top: 10px; }
-.head .soft { display:block; margin-top: 8px; }
+.head .soft { display:block; margin-top: 4px; }
 /* the satchel's light: a slow breath from under the flap (no line, no flicker) */
 .inner-glow { animation: satchel-glow 6.5s ease-in-out infinite; }
 @keyframes satchel-glow { 0%,100% { opacity:.35; } 50% { opacity:1; } }
@@ -114,7 +114,7 @@ body { --scrim-top-h: 200px; --scrim-bottom-h: 58%; }
 <div class="ui">
   <header class="topbar col rise"><a class="home" href="morning.html"><svg viewBox="0 0 20 20" aria-hidden="true"><path d="M12.5 4.5 7 10l5.5 5.5"/></svg><span>Today</span></a><span></span><span></span></header>
   <section class="col head rise d1">
-    <div class="label-line">The satchel</div>
+    <h1 class="carve lg">The satchel</h1>
     <span class="soft on-scene">For the days you have a list.</span>
   </section>
   <div class="mid"></div>
